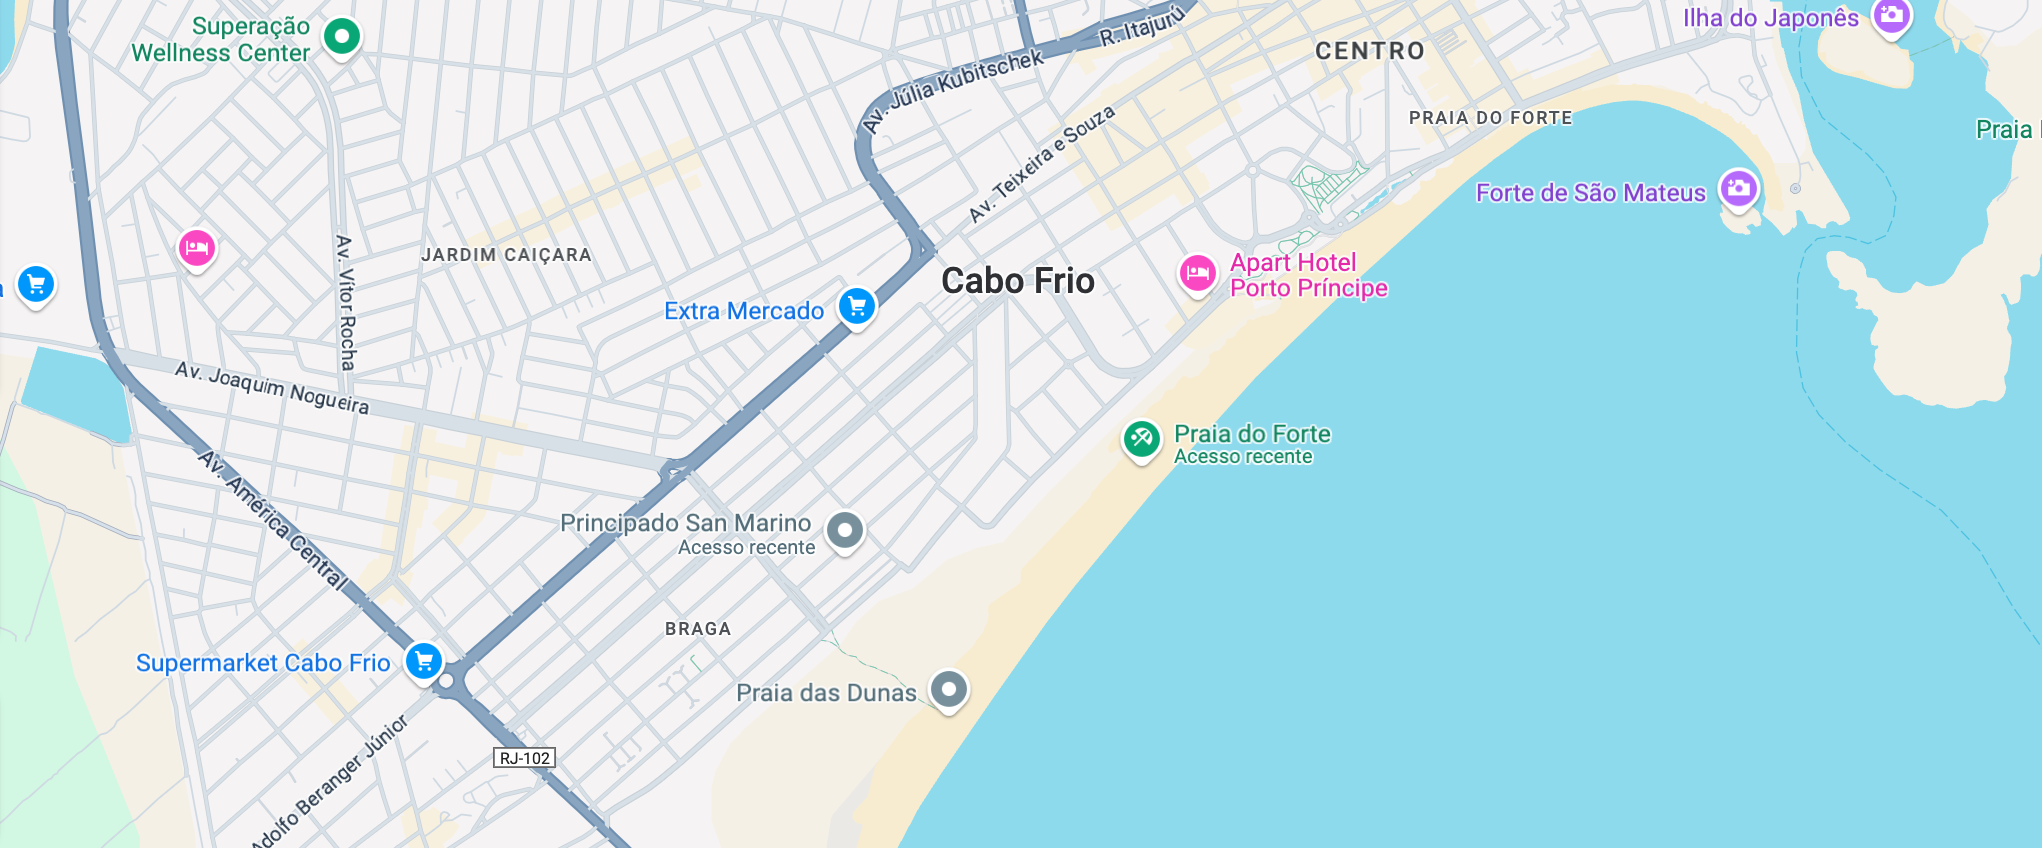
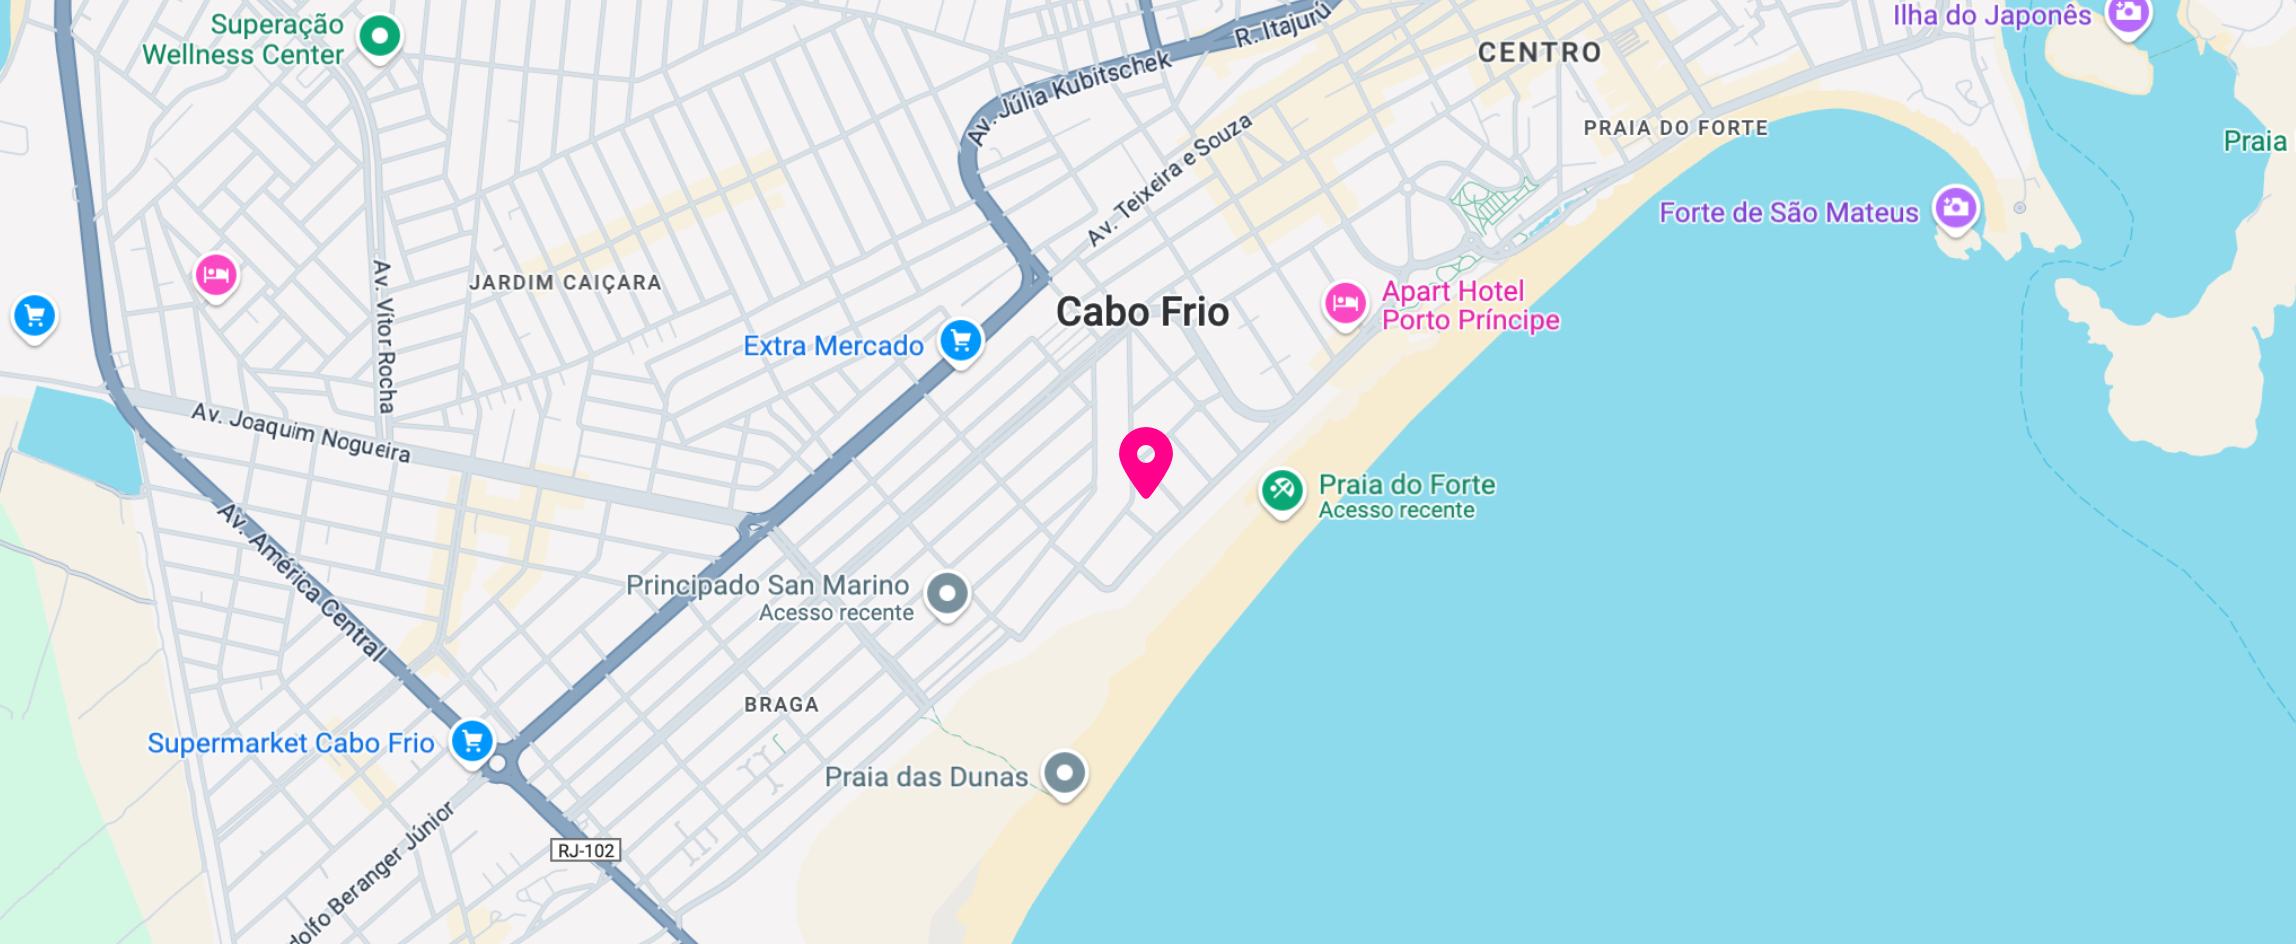
third-commit

diff --git a/index.html b/index.html
@@ -224,7 +224,7 @@
                 <img src="./src/images/map.png" class="map" alt="map">
             </picture>
             
-            <i class="fa-solid fa-location-dot"></i>
+            
         </div>
     </section>
 

diff --git a/README.md b/README.md
@@ -24,7 +24,7 @@ Uma landing page responsiva de um apartamento disponível para locação.
 <img src="./src/images/screenshots/amenities-responsive-screenshot.png"width="300px"  alt="captura-de-tela-comodidades"> 
 <img src="./src/images/screenshots/location-screenshot.png" width="500px" alt="captura-de-tela-localizacao">
 <img src="./src/images/screenshots/reviews-screenshot.png" width="500px"  alt="captura-de-tela-depoimentos>
-<img src="./src/images/screenshots/location-reviews-responsive-screenshot.png" width="300px" alt="captura-de-tela-localizacao">
+
 
 ### Funcionalidades
 O usuário pode navegar pelos diferentes menus da página, que apresentam informações relevantes sobre o apartamento. Na seção de galeria, é possível visualizar as fotos disponíveis e abrir um modal que amplia a imagem, acompanhado da descrição do respectivo cômodo.
@@ -39,6 +39,7 @@ A responsividade para dispositivos móveis foi implementada com o uso de media q
 ### Destaques do Processo
 Os maiores desafios estiveram na criação do design da página, buscando transmitir a sensação de praia e a brisa típica da Região dos Lagos. A paleta de cores foi desenvolvida com base na imagem central do site — uma fotografia da praia próxima ao apartamento.
 O processo de adicionar ícones personalizados para cada uma das comodidades exigiu bastante atenção, assim como a criação da lógica de navegação no carrossel de imagens.
+
 No final, o projeto representou uma excelente oportunidade para aprimorar minhas habilidades em desenvolvimento Front-End, além de resultar em um projeto real para o portfólio: uma landing page funcional, que contribui para um processo de locação mais seguro e confiável. 
 
 ### Desenvolvido com
@@ -47,7 +48,7 @@ No final, o projeto representou uma excelente oportunidade para aprimorar minhas
 - JavaScript
 
 ### Link
-
+https://apartment-landing-page-9ppx4vj5k-rafaels-projects-3b81a1b9.vercel.app
 
 ### Autor
 Rafael Gevu
